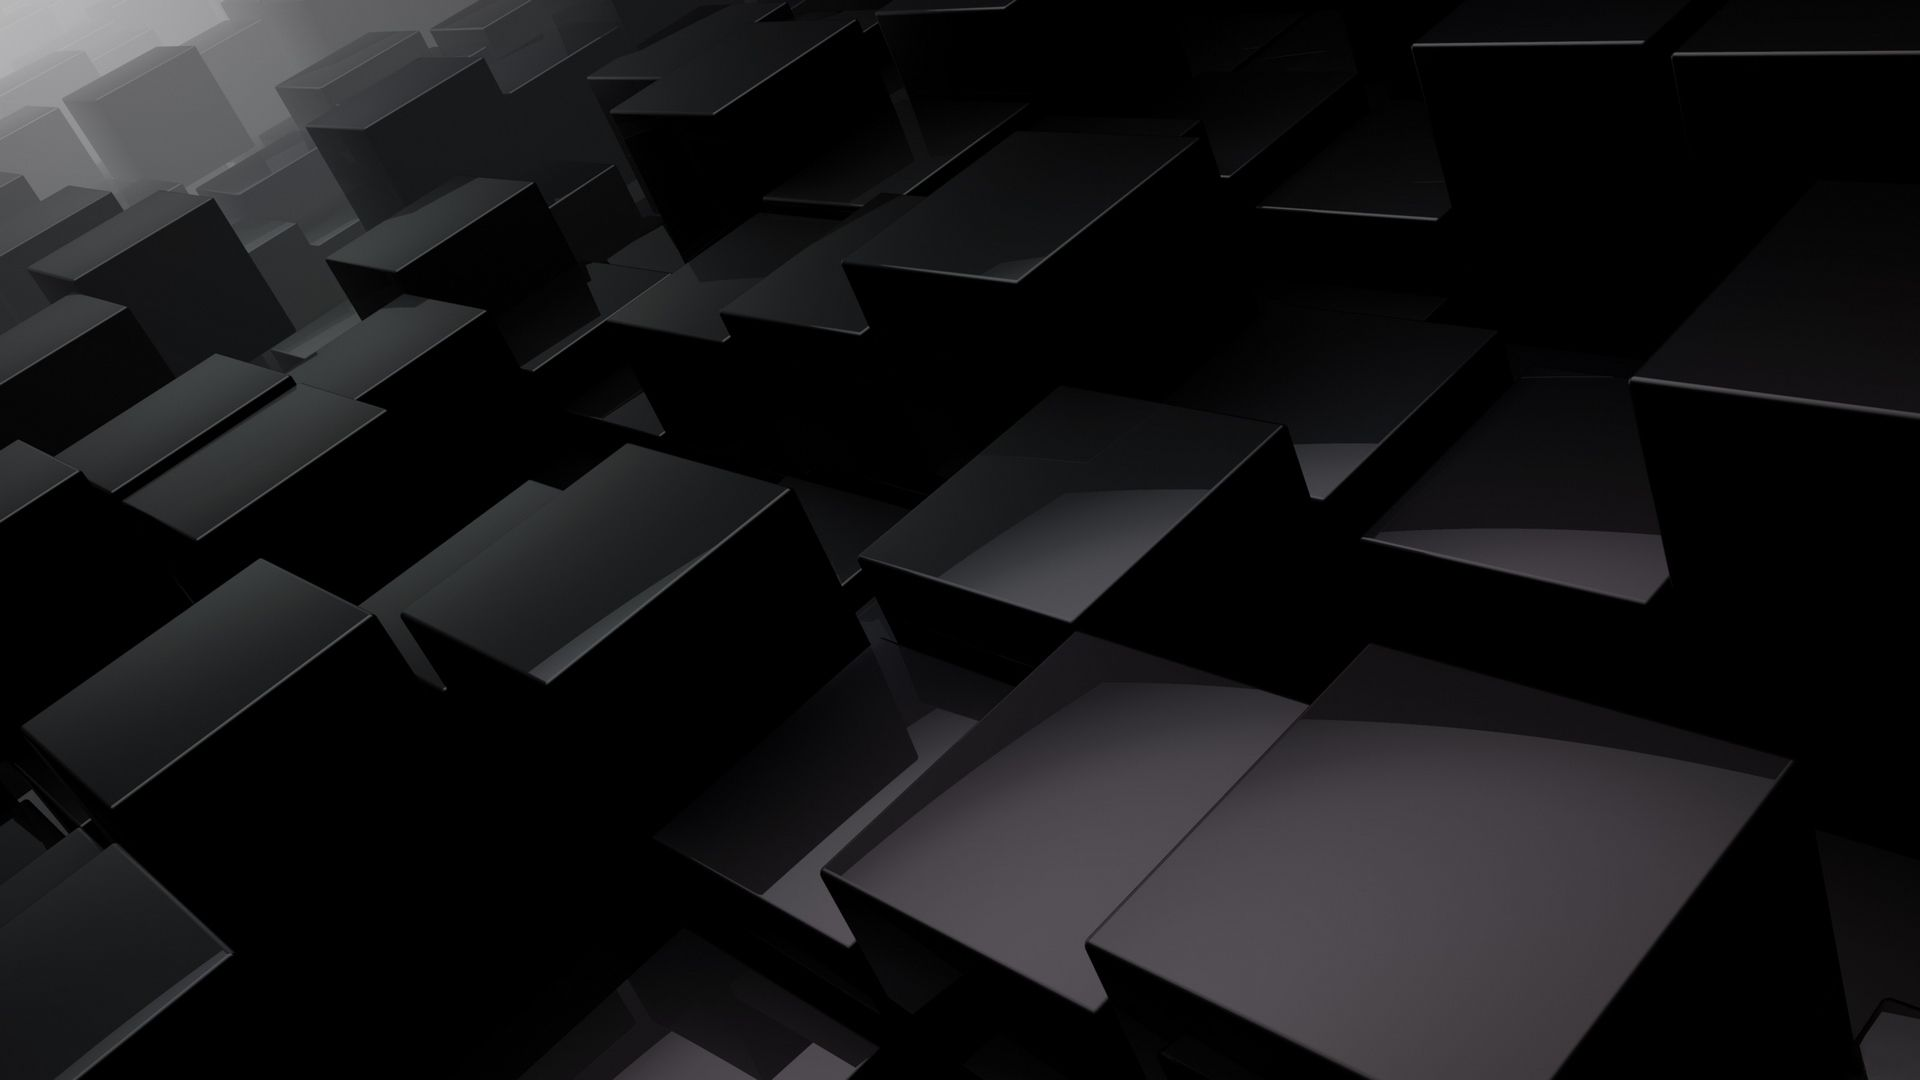
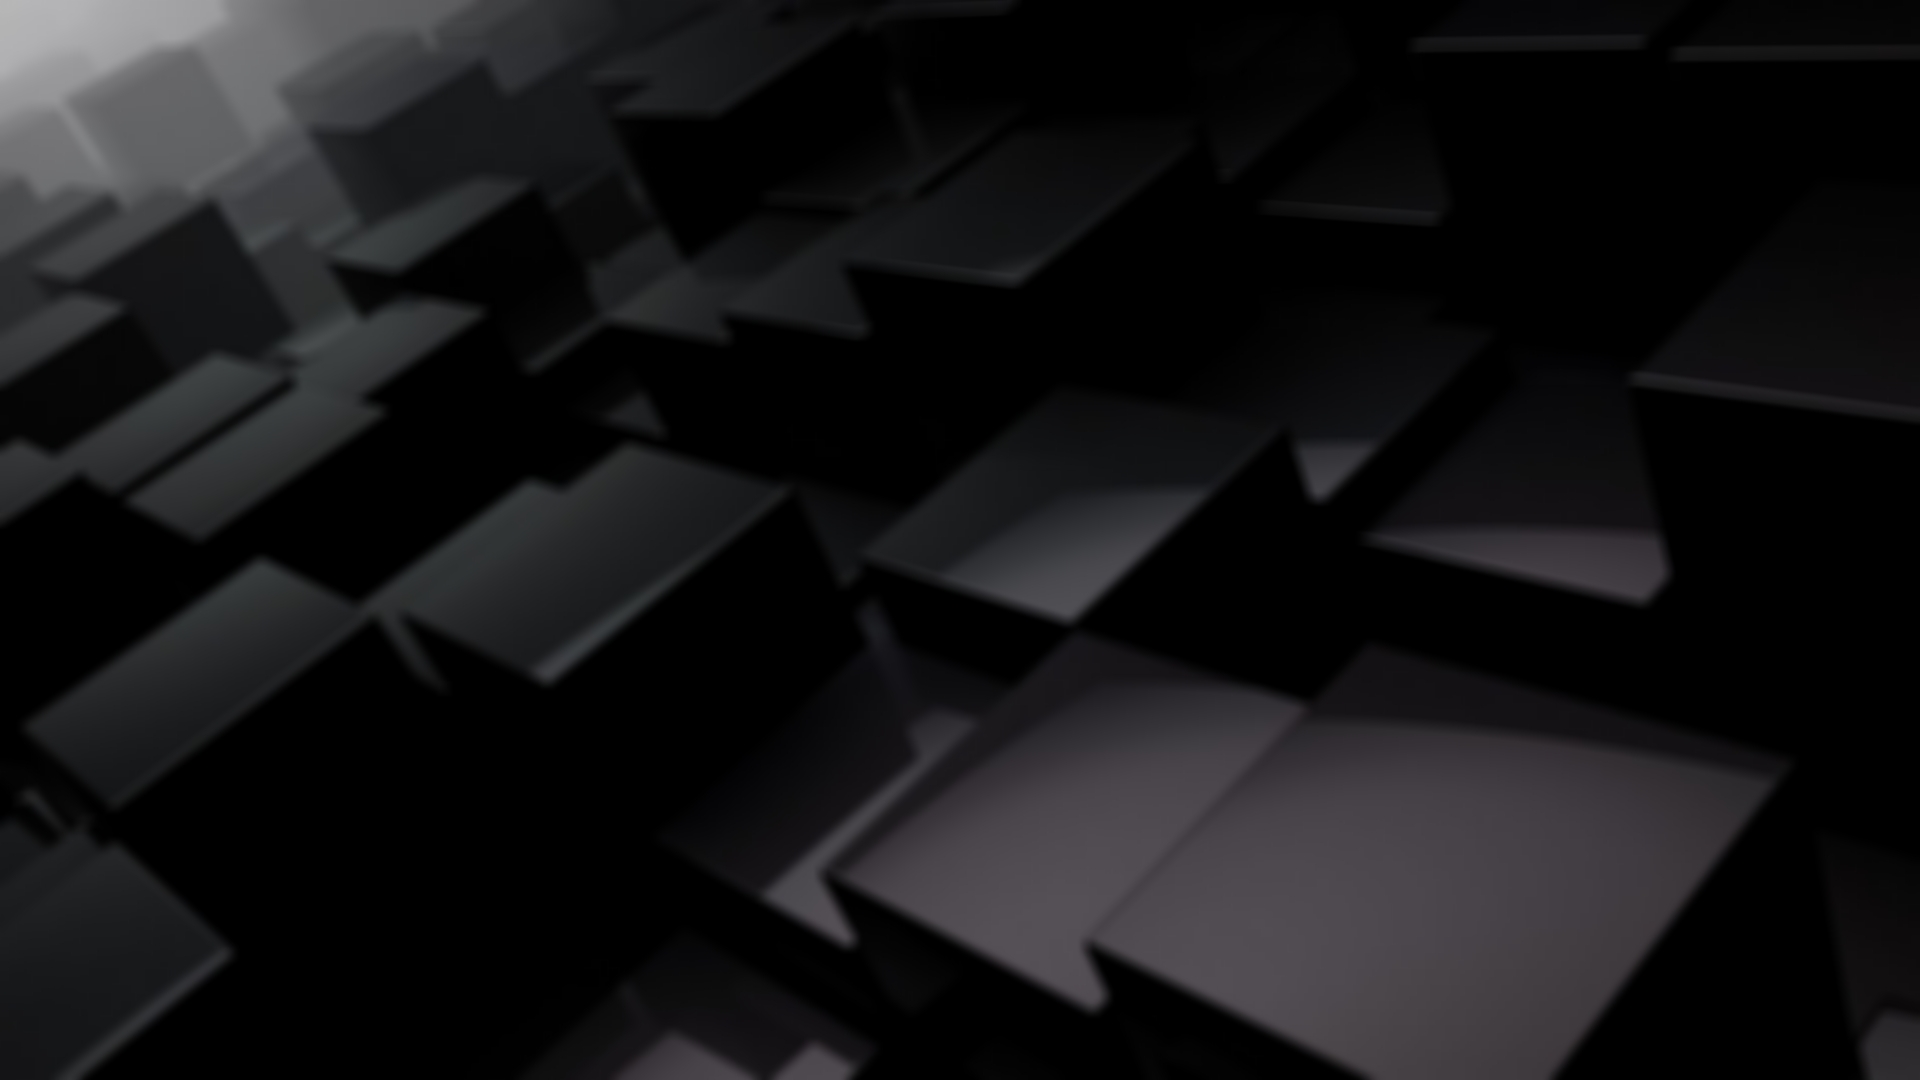
my-changes

diff --git a/style.css b/style.css
@@ -1,17 +1,20 @@
-@import url('https://fonts.googleapis.com/css2?family=Aboreto&family=Bebas+Neue&family=Oswald&display=swap');
+
 body{
   font-family: 'Aboreto', cursive;
 font-family: 'Bebas Neue', cursive;
-font-family: 'Oswald', sans-serif;
+font-family: 'source sans pro', sans-serif;
 }
-.back{
-    background-image: url(/image/bg5.jpg);
-    width: 100%;
-    min-height: 95vh;
-    border: 2px solid white;
-    border-radius: 10px;
-    
-    /* box-sizing: border-box; */
+*{
+  margin: 0;
+  padding: 0;
+  box-sizing: border-box;
+}
+.back{ 
+   background-image: url(/image/bg6.jpg);
+   width: 100%;
+   height: 100Vh;
+   border: 1px solid white;
+   border-radius: 10px 10px;
 }
 .container1{
   background-color:transparent;
@@ -20,20 +23,19 @@ font-family: 'Oswald', sans-serif;
 }
 .img1 img{
   width: 80px;
-  height: 60px;
+  height: 50px;
   padding-left: 20px;
 }
 .nav{
   width: 95%;
   display: flex;
-  
   justify-content: space-between;
   
   
 }
 .option{
-  
-  text-align: end;
+  /* gap: 5%;
+  text-align: end; */
   padding-top: 10px;
   
 } 
@@ -42,29 +44,31 @@ font-family: 'Oswald', sans-serif;
   color: white;
   font-weight: bolder;
   padding-right: 12px;;
-  font-size: large;
+  font-size: x-large;
+  
   /* border-width: 20px; */
- 
 }
+ 
+
 .option a:hover{
   background-color: #7895B2;
-  border-radius: 10px 1
-  0px;
+  border-radius: 10px 10px;
   color: black;
   padding: 5px 5px 5px 5px;
 }
-.border{
-  border: 4px solid#7895B2;
-  border-radius: 20px 20px;
-  padding: 10px 7px 7px 10px ;
+.border a{
+ padding-left: 30px;  
 }
 
   .head{
     color: white;
-    margin-left: 24%;
+    margin-left: 22%;
     font-weight: bolder;
    font-size: x-large;
     
+  }
+  .head1{
+   padding-right: 10px;
   }
   .devp{
     color: #7895B2;
@@ -79,7 +83,7 @@ font-family: 'Oswald', sans-serif;
     border: 2px solid white;
     border-radius: 0.5rem 0.5rem;
     background-color:transparent;
-    width: 60%;
+    width: 58%;
     padding: 5px 5px 5px 5px;
     
     
@@ -92,10 +96,10 @@ font-family: 'Oswald', sans-serif;
     padding-top: 40px;
   }
   h1{
-    margin: 0%;          
+    margin: 2%;          
   }
   h2{
-    margin: 0%;
+    margin: 2%;
   }
   @media  (max-width: 500px){
   .back{
@@ -105,30 +109,42 @@ font-family: 'Oswald', sans-serif;
 @media  (max-width: 450px){
 
   .back{
-    min-height: 105vh;
+    min-height: 125vh;
   }
 
 };
-@media  (max-width: 400px){
+@media  (max-width: 351px){
 
 
   .back{
-    min-height: 130vh;
+    min-height: 160vh;
+  }
+  .head{
+   
+    margin-left: 10%;
+    
+   
   }
 
 }
 @media  (max-width: 350px){
 
   .back{
-    min-height: 120vh;
-    width: 120%;
+    min-height: 130vh;
+    width: 100%;
+  }
+  .head{
+   
+    margin-left: 10%;
+    
+   
   }
 }
 @media  (max-width: 300px){
 
   .back{
     min-height: 130vh;
-    width: 110%;
+    width: 100%;
   }
 }
 /* __________________________________________ */
@@ -137,66 +153,16 @@ font-family: 'Oswald', sans-serif;
   padding: 0;
   box-sizing: border-box;
 }
-.back1{
-  background-image: url(/image/bg\ about.jpg);
-  width: 100%;
-  height: 90vh;
-  border: 2px solid black;
-  border-radius: 10px;
-  flex-wrap: wrap;
-}
-
-.borders{
-  width: 10%;
-  border: 2px solid black;
-  border-radius: 10px;
- margin-left: 40%;
- margin-top: 20px;
- background-color: #7895B2 ;
- flex-wrap: wrap;
-}
-.iam1{
- text-align: center;
-}
-.me img{
-  width: 20%;
-  height: 50vh;
-  border: 2px solid black;
-  border-radius: 20px;
-  margin-right: 20px;
-  margin-top: 70px;
-  float:right;
-  
-}
-.columnright{
-    width: 60%;
-    font-size: x-large;
-    padding-top: 30px;
-    padding-left: 10%;
-}
-.text{
-   font-weight: bolder;
-   font-size: xx-large;
-  
-}
-.text span{
-  color: #7895B2;
-  font-size:120%;
-}
-.cv a{
-  text-decoration: none;
-  border: 1px solid black;
-  border-radius: 20px 20px;
-  color: black;
-  font-weight: bolder;
-  padding: 10px 10px 10px 10px ;
-  background-color: #7895B2;
+.about1{
+ align-items: center;
  
+  width: 7%;
+  border-bottom: 2px solid black;
+  margin: 40px auto 0px auto;
 }
-.cv{
-  padding-top: 10px;
-}
-.cv a:hover{
-  background-color: transparent;
-
+.fast img{
+  height: 20vh;
+  width: 12%;
+  margin-left: 20%;
+  margin-top: 10px;
 }

diff --git a/index.html b/index.html
@@ -12,12 +12,11 @@
 <body>
     <div class="back">
 
-
         <div class="container">
             <div class="container1">
                 <div class="nav">
                     <div class="img1">
-                        <img src="/image/logo 1.jpg" alt="">
+                        <img src="/image/logo s.png" alt="">
                     </div>
 
                     <div class="option">
@@ -33,35 +32,31 @@
         </div>
 
         <div class="head">
-            <h2>Hey,</h2>
-            <h1> I'm Mohammed Shazeeb .C</h1>
-            <h2 class="fr1">I'm a Frontend <span class="devp"> Developer</span></h2>
+            <div class="head1">
+                <h2>Hey,</h2>
+                 <h1> I'm Mohammed Shazeeb .C</h1>
+                <h2 class="fr1">I'm a Frontend <span class="devp"> Developer</span></h2>
+            </div>
             <p>I Design & Build User Interface. I Value Simple Content Structure, Clean Design Patterns, And Thoughtfull
                 Interactions..</p>
-                <div class="move">
-                   <a href="contact">Contact</a>
-               </div>  
+            <div class="move">
+                <a href="contact">Contact</a>
+            </div>
         </div>
     </div><br>
     <div class="about">
-        <div class="back1">
-            <div class="borders">
-                <div class="iam1">
+        <div class="back2">
+             <div class="about1">
+                   <h1>About</h1>   
+             </div>
+              <div class=" fast">
+                <img src="/image/fast2.png" alt="">
+              </div>
 
-                    <h1>-who I Am-</h1>
-                </div>
-            </div>
-            <div class="me ">
-                   <img src="/image/IMG_20220927_224354.jpg" alt="">
-            </div>
-            <div class="columnright">
-                <div class="text">Im Mohammed shazeeb and Iam a <span>Developer</span></div>
-                <p>Experienced Web Developer with a proven history of working in the computer software industry. Skilled in python TensorFlow Keras , PHP MVC , html5, javascript, jquery, ajax. Strong engineering professional with Bachelor’s degree focused on computer science.Experienced Web Developer with a proven history of working in the computer software industry. Skilled in python TensorFlow Keras , PHP MVC , html5, javascript, jquery, ajax. Strong engineering professional with Bachelor’s degree focused on computer science.</p>
-                     <div class="cv">
-                          <a href="#">Download CV</a>
-                      </div>
-            </div>
+
+
         </div>
+        
     </div>
 </body>
 
